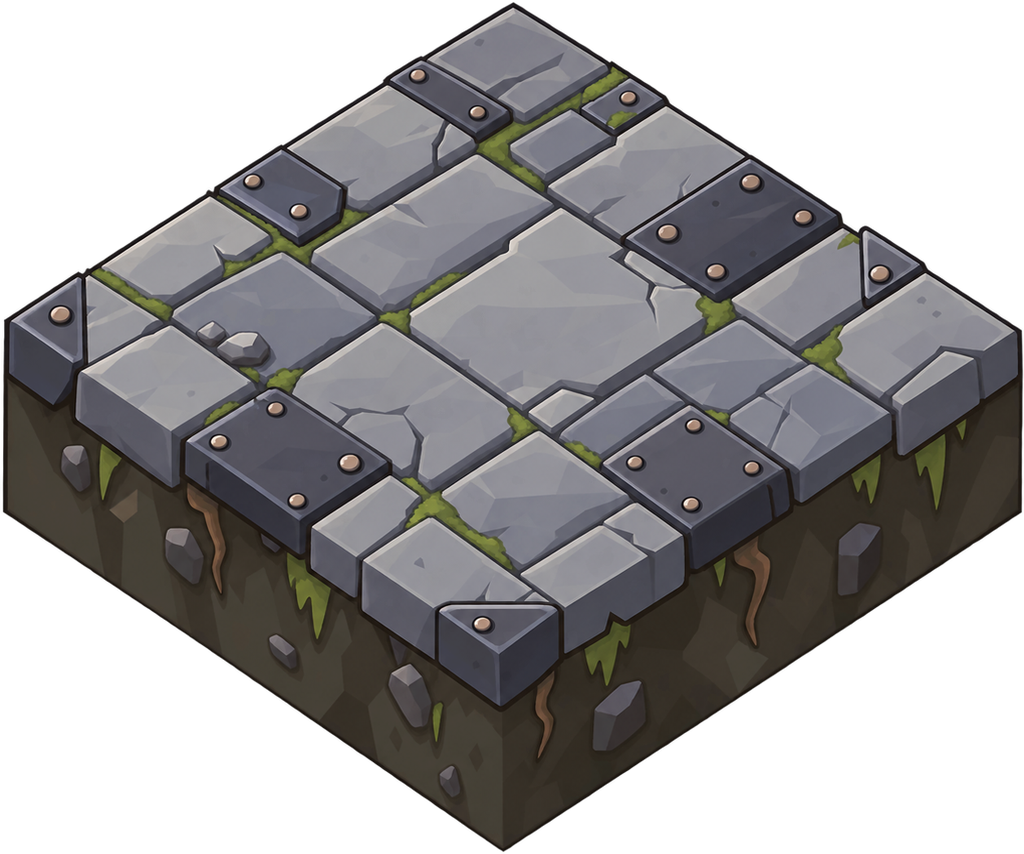
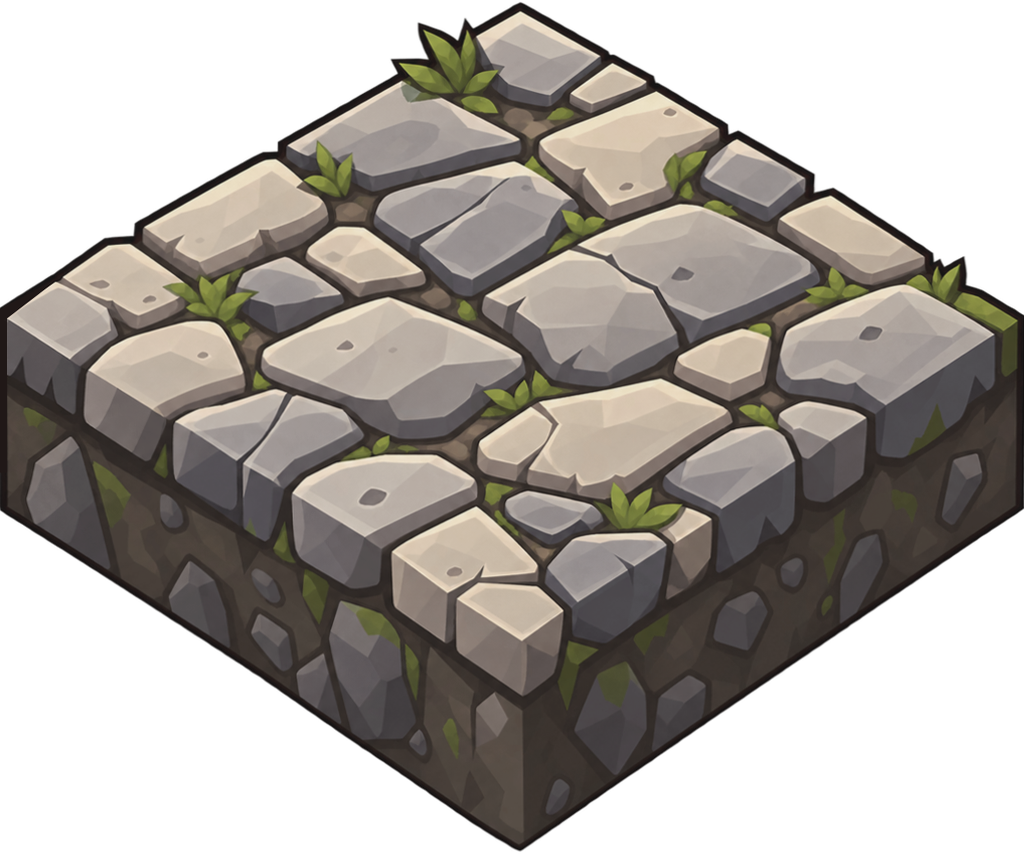
Actualizacion 28/10/2026 22:45:20,02

diff --git a/js/reliquia.js b/js/reliquia.js
@@ -6,10 +6,11 @@
        con un gnomo en la mano lo aturde y carga el gnomo con +5 puntos (el gnomo se queda).
      - Abrir el altar: lanzarle un gnomo cargado con 10 puntos rompe las cadenas (con menos, solo rebota).
        Atacar el altar manda a los guardias tras el atacante hasta que se aleje más de 4 casillas.
-     - La Reliquia: quien la coge del altar la lleva sobre la cabeza y acumula 1 punto por cada turno que la
-       lleva; los guardias van a por él (siempre al portador, sea del bando que sea). Si llega a una casilla
-       pegada a su obelisco cobra todos los puntos de Gloria y el minijuego se reinicia (Reliquia al altar,
-       sellado). Si la pierde (muere), cae al suelo y pierde los puntos: cualquier unidad que la pise la coge;
+     - La Reliquia: quien la coge del altar la lleva sobre la cabeza con 0 puntos; al desencadenarla salen 15
+       PÁGINAS flotando en casillas libres al azar (cuando se recoge una sale otra, hasta 30 en total) y cada
+       página que pisa el portador le suma +2 puntos. Los guardias van a por él (siempre al portador, sea del
+       bando que sea). Si llega a una casilla pegada a su obelisco cobra todos los puntos de Gloria, las
+       páginas se desvanecen y el minijuego se reinicia (Reliquia al altar, sellado). Si la pierde (muere), cae al suelo y pierde los puntos: cualquier unidad que la pise la coge;
        si la pisa un guardia, vuelve al altar y se resella.
    Solo existe en el nivel "wallforge" (experimental, sin multijugador). El resto del juego solo la ve a través
    de Reliquia.blocks (casillas ocupadas, vía Drums.at), Reliquia.addThrowMarker (js/gnome.js), Reliquia.refreshFog
@@ -24,6 +25,7 @@ const RELIQUIA_SRC = {
   abierto: RELIQUIA_DIR + "altar_abierto.png",
   vacio: RELIQUIA_DIR + "altar_vacio.png",
   icono: RELIQUIA_DIR + "reliquia.png",
+  pagina: RELIQUIA_DIR + "pagina.png",
 };
 const RELIQUIA_HITS_TO_OPEN = 3; // gnomos que hay que estrellar contra el altar: rompen una cadena, la otra y, el tercero, desencadena la Reliquia
 const RELIQUIA_WAVE_MS = [2400, 1600, 1000, 620]; // cada cuánto sale una onda naranja según los golpes recibidos (más rápido con menos cadenas)
@@ -36,13 +38,17 @@ const RELIQUIA_GUARD_OFFSETS = [0, 5, 11]; // posiciones de los 3 guardias en el
 const RELIQUIA_ALTAR_W = 262; // ancho del altar en pantalla (px)
 const RELIQUIA_ALTAR_H = (638 / 560) * RELIQUIA_ALTAR_W;
 const RELIQUIA_MAX_POINTS = 30; // tope de puntos acumulables
-const RELIQUIA_POINTS_PER_TURN = 3; // puntos que suma la Reliquia por turno en manos de un jugador
+const RELIQUIA_PAGES_START = 15; // páginas que salen por el mapa al desencadenar la Reliquia
+const RELIQUIA_PAGES_TOTAL = 30; // páginas que pueden aparecer en total (al recoger una sale otra hasta llegar a este número)
+const RELIQUIA_PAGE_POINTS = 2; // puntos que suma al portador cada página que pisa
 const RELIQUIA_FLOAT_Y = 150; // altura de la Reliquia flotando sobre el altar vacío (ya sin cadenas)
 const RELIQUIA_RELIC_Y = 93; // altura (px sobre el centro de la casilla) a la que flota la Reliquia sobre el altar
 
 const Reliquia = {
   altar: null, // { row, col, el, imgEl, state: "sellado" | "abierto" | "vacio" }
   guards: [],
+  pages: [], // páginas flotando por el mapa: { row, col, el }
+  pagesSpawned: 0, // páginas que han salido desde que se desencadenó la Reliquia
   relic: null, // { state: "altar" | "carried" | "guard" | "floor", carrier, guard, team, points, row, col, el }
   alert: null, // { unitId }
   base: 0, // giro actual de la patrulla
@@ -55,6 +61,9 @@ const Reliquia = {
   resetAll() {
     if (this.altar && this.altar.el) this.altar.el.remove();
     this.guards.forEach((g) => g.el && g.el.remove());
+    this.pages.forEach((p) => p.el && p.el.remove());
+    this.pages = [];
+    this.pagesSpawned = 0;
     if (this.relic && this.relic.el) this.relic.el.remove();
     this._hideFloat();
     this.altar = null;
@@ -268,6 +277,7 @@ const Reliquia = {
     this.altar.el.classList.toggle("unit--fog-hidden", f(this.altar));
     if (this.altar.floatEl) this.altar.floatEl.classList.toggle("unit--fog-hidden", f(this.altar));
     this.guards.forEach((g) => g.el.classList.toggle("unit--fog-hidden", f(g)));
+    this.pages.forEach((p) => p.el.classList.toggle("unit--fog-hidden", f(p)));
     const r = this.relic;
     if (r && r.state === "floor" && r.el) r.el.classList.toggle("unit--fog-hidden", f(r));
   },
@@ -328,15 +338,6 @@ const Reliquia = {
     if (!this.altar || !this.relic) return;
     if (typeof Obelisks !== "undefined" && Obelisks.gameOver) return;
     try {
-      const r = this.relic;
-      if (r.state === "carried" && r.team === team) {
-        const gain = Math.min(RELIQUIA_POINTS_PER_TURN, RELIQUIA_MAX_POINTS - r.points);
-        r.points += gain;
-        this._updateBadge();
-        const u = this._carrier();
-        if (u) Units.spawnFloatingText(u, `+${gain}`, { className: "dmg-popup gnome-points-popup" });
-        if (u) await this.checkDelivery(u);
-      }
       this._revealCarrier();
       await this._guardsTurn();
     } catch (e) {
@@ -850,12 +851,95 @@ const Reliquia = {
       this._setAltar("vacio"); // sin cadenas: altar vacío y la Reliquia flotando encima
       this._stopWaves();
       this._showFloat();
+      this._spawnPages(RELIQUIA_PAGES_START); // la Reliquia se libera: salen las páginas por todo el mapa
     }
     if (typeof Enmurallado !== "undefined" && Enmurallado.shards) Enmurallado.shards(x, y - 70, a.hits >= 3 ? 16 : 8, { speed: 100, lift: 60, size: 11 });
     if (a.hits >= 2 && a.imgEl.animate)
       a.imgEl.animate([{ transform: "scale(.94,1.06)" }, { transform: "scale(1.07,.93)", offset: 0.4 }, { transform: "scale(1,1)" }], { duration: 480, easing: "cubic-bezier(.2,1.5,.4,1)" });
     if (a.hits < RELIQUIA_HITS_TO_OPEN) this._startWaves(); // las ondas se aceleran
     await this._wait(a.hits >= 3 ? 420 : 260);
+  },
+
+  // ---------- Páginas de la Reliquia ----------
+  _pageAt(row, col) {
+    return this.pages.find((p) => p.row === row && p.col === col) || null;
+  },
+
+  _pageTileOk(r, c) {
+    const size = Units.boardSize;
+    if (r < 0 || c < 0 || r >= size || c >= size) return false;
+    if (typeof TerrainMap !== "undefined" && !TerrainMap.isWalkable(r, c)) return false;
+    if (this.altar && Math.max(Math.abs(r - this.altar.row), Math.abs(c - this.altar.col)) <= RELIQUIA_RING) return false;
+    if (this._pageAt(r, c)) return false;
+    if (Units.unitAt(r, c)) return false;
+    if (typeof Gnome !== "undefined" && Gnome.isAt(r, c)) return false;
+    if (typeof Villages !== "undefined" && Villages.at(r, c)) return false;
+    if (typeof Shops !== "undefined" && Shops.at(r, c)) return false;
+    if (typeof Obelisks !== "undefined" && Obelisks.at(r, c)) return false;
+    if (typeof Resources !== "undefined" && Resources.at(r, c)) return false;
+    if (typeof Oracle !== "undefined" && Oracle.at && Oracle.at(r, c)) return false;
+    if (typeof Bushes !== "undefined" && Bushes.at && Bushes.at(r, c)) return false;
+    if (typeof Drums !== "undefined" && Drums.at(r, c)) return false;
+    return true;
+  },
+
+  // Hace salir n páginas en casillas libres al azar (sin pasarse de las 30 totales).
+  _spawnPages(n) {
+    const size = Units.boardSize, cells = [];
+    for (let r = 0; r < size; r++) for (let c = 0; c < size; c++) if (this._pageTileOk(r, c)) cells.push({ row: r, col: c });
+    for (let i = cells.length - 1; i > 0; i--) {
+      const j = Math.floor(Math.random() * (i + 1));
+      [cells[i], cells[j]] = [cells[j], cells[i]];
+    }
+    const count = Math.min(n, RELIQUIA_PAGES_TOTAL - this.pagesSpawned, cells.length);
+    for (let i = 0; i < count; i++) this._createPage(cells[i].row, cells[i].col, i * 70);
+    this.pagesSpawned += count;
+    this.refreshFog();
+  },
+
+  _createPage(row, col, delay) {
+    const el = document.createElement("div");
+    el.className = "unit board-item reliquia-page";
+    const img = document.createElement("img");
+    img.alt = "";
+    img.draggable = false;
+    img.style.animationDelay = `-${(Math.random() * 3).toFixed(2)}s`; // flotan desfasadas
+    this._src(img, RELIQUIA_SRC.pagina);
+    el.appendChild(img);
+    Units.container.appendChild(el);
+    const { x, y } = this._px(row, col);
+    el.style.left = `${x}px`;
+    el.style.top = `${y}px`;
+    el.style.zIndex = String((row + col) * 10 + 7);
+    this.pages.push({ row, col, el });
+    if (el.animate) el.animate([{ scale: "0.2", opacity: 0 }, { scale: "1.25", opacity: 1, offset: 0.6 }, { scale: "1", opacity: 1 }], { duration: 420, delay: delay || 0, easing: "ease-out", fill: "backwards" });
+  },
+
+  // El portador pisa una casilla: si hay una página, la recoge (+2 puntos) y sale otra en otro sitio.
+  _collectPageAt(unit, row, col) {
+    const r = this.relic, page = this._pageAt(row, col);
+    if (!page || !r || r.state !== "carried" || r.carrier !== unit.id) return;
+    this.pages = this.pages.filter((p) => p !== page);
+    const gain = Math.min(RELIQUIA_PAGE_POINTS, RELIQUIA_MAX_POINTS - r.points);
+    r.points += gain;
+    this._updateBadge();
+    Units.spawnFloatingText(unit, `+${gain}`, { className: "dmg-popup gnome-points-popup" });
+    this._sfx("passSuccess");
+    const el = page.el;
+    if (el.animate) el.animate([{ scale: "1", opacity: 1 }, { scale: "1.5", opacity: 0 }], { duration: 260, easing: "ease-out", fill: "forwards" }).finished.catch(() => {}).then(() => el.remove());
+    else el.remove();
+    if (this.pagesSpawned < RELIQUIA_PAGES_TOTAL) setTimeout(() => { if (this.altar && this.relic && this.relic.state !== "altar") this._spawnPages(1); }, 450);
+  },
+
+  _clearPages() {
+    const old = this.pages;
+    this.pages = [];
+    this.pagesSpawned = 0;
+    old.forEach((p) => {
+      const el = p.el;
+      if (el.animate) el.animate([{ scale: "1", opacity: 1 }, { scale: "0.3", opacity: 0 }], { duration: 380, easing: "ease-in", fill: "forwards" }).finished.catch(() => {}).then(() => el.remove());
+      else el.remove();
+    });
   },
 
   // ---------- Coger y llevar la Reliquia ----------
@@ -1001,6 +1085,7 @@ const Reliquia = {
       Units.spawnFloatingText(unit, "0", { className: "dmg-popup gnome-points-popup" });
     }
     if (r.state === "carried" && r.carrier === unit.id) {
+      this._collectPageAt(unit, row, col);
       if (unit.team !== "player" && typeof Fog !== "undefined" && Fog.revealAround) {
         const type = typeof UNIT_TYPES !== "undefined" ? UNIT_TYPES[unit.typeId] : null;
         Fog.revealAround(row, col, (type ? type.percepcion : 1) + 1);
@@ -1043,6 +1128,7 @@ const Reliquia = {
     r.points = 0;
     this.alert = null;
     this._hideFloat();
+    this._clearPages(); // el minijuego se reinicia: las páginas se desvanecen
     await this._fly(from, this._relicAnchor(), 700);
     this.altar.hits = 0;
     this._setAltar("sellado");

diff --git a/js/levelassets.js b/js/levelassets.js
@@ -15,10 +15,10 @@ const LevelAssets = {
       bush: "arbusto.png",
       hierbajos: "hierbajos.png",
     },
-    // Fortaleza WallForge: suelo propio (patio de piedra y tablones de madera) y dos aguas; vegetación de MushBoom hasta tener la propia.
+    // Fortaleza WallForge: suelo propio por zonas (empedrado de base, metal alrededor de la Reliquia, tierra junto al agua) y dos aguas; vegetación de MushBoom hasta tener la propia.
     wallforge: {
       dir: "assets/niveles/wallforge/",
-      grassZones: ["piedra.png", "madera.png"],
+      grassZones: ["piedra.png", "metal.png", "tierra.png"],
       water: ["agua_1.png", "agua_2.png"],
       nodes: null,
       bush: null,
@@ -89,8 +89,42 @@ const LevelAssets = {
     const a = this._h(x0, y0), b = this._h(x0 + 1, y0), c = this._h(x0, y0 + 1), d = this._h(x0 + 1, y0 + 1);
     return a + (b - a) * sx + (c - a) * sy + (a - b - c + d) * sx * sy;
   },
+  // WallForge: suelo por ZONAS (no por ruido). 0 empedrado (base), 1 metal
+  // (alrededor del Altar de la Reliquia, en el centro), 2 tierra (junto al agua).
+  // prepareTerrain se llama desde generateMap y renderMap con el mapa ya decidido.
+  _ctx: null,
+  prepareTerrain(size, isWater) {
+    const zs = TILE_TYPES.grass.zones;
+    if (!zs || zs.length !== 3) { this._ctx = null; return; }
+    const INF = 99, d = Array.from({ length: size }, () => new Array(size).fill(INF));
+    const q = [];
+    for (let r = 0; r < size; r++) for (let c = 0; c < size; c++) if (isWater(r, c)) { d[r][c] = 0; q.push([r, c]); }
+    for (let i = 0; i < q.length; i++) { // distancia (Chebyshev) al agua más cercana
+      const [r, c] = q[i];
+      for (let dr = -1; dr <= 1; dr++) for (let dc = -1; dc <= 1; dc++) {
+        const nr = r + dr, nc = c + dc;
+        if (nr < 0 || nc < 0 || nr >= size || nc >= size || d[nr][nc] <= d[r][c] + 1) continue;
+        d[nr][nc] = d[r][c] + 1; q.push([nr, nc]);
+      }
+    }
+    this._ctx = { size, d };
+  },
+  _zone3(row, col) {
+    const c = this._ctx;
+    if (!c) return 0;
+    const mid = Math.floor(c.size / 2);
+    const dc = Math.max(Math.abs(row - mid), Math.abs(col - mid));
+    // Metal: cuadrado irregular alrededor del altar (radio 2.5–3.8).
+    if (dc <= 2.5 + 1.3 * this._vn(row / 2.5 + 30, col / 2.5 + 30)) return 1;
+    // Tierra: pegada al agua; a 2 casillas, solo a veces para que la orilla no sea una línea recta.
+    const dw = c.d[row] ? c.d[row][col] : 99;
+    if (dw <= 1 || (dw === 2 && this._h(row, col) < 0.2)) return 2;
+    return 0;
+  },
   // Devuelve 0 (tierra) o 1 (piedra) para la loseta.
   zoneIndex(row, col) {
+    const zs = TILE_TYPES.grass.zones;
+    if (zs && zs.length === 3) return this._zone3(row, col);
     // El "bioma" grande decide cuánto se mezcla: en zonas con valor bajo
     // manda un solo material, en las medias se dispersan.
     const big = this._vn(row / 9, col / 9);

diff --git a/index.html b/index.html
@@ -9,7 +9,7 @@
      existe para tomar el control del gesto. -->
 <meta name="viewport" content="width=device-width, initial-scale=1.0, maximum-scale=1.0, user-scalable=no, viewport-fit=cover">
 <title>Gnomore Gnomes</title>
-<link rel="stylesheet" href="css/style.css?v=1793787000">
+<link rel="stylesheet" href="css/style.css?v=1793797000">
 <link rel="stylesheet" href="css/mobile.css?v=1793502810">
 <link rel="stylesheet" href="assets/fonts/phosphor/regular.css">
 <link rel="stylesheet" href="assets/fonts/phosphor/light.css">
@@ -108,7 +108,7 @@
          de juego de rol" — contenedor propio (no .option-list, pensado
          para la lista vertical y estrecha de modo/rivales) para las
          tarjetas de raza, más anchas y en fila (ver .race-card-list en
-         css/style.css?v=1793787000 y renderRaceCard en js/newgame-flow.js). -->
+         css/style.css?v=1793797000 y renderRaceCard en js/newgame-flow.js). -->
     <div class="race-card-list" id="race-list"></div>
   </main>
 
@@ -154,7 +154,7 @@
   <script src="js/races.js?v=1791600001"></script>
   <script src="js/levels.js?v=1793700000"></script>
   <script src="js/matchsetup.js?v=1793500600"></script>
-  <script src="js/levelassets.js?v=1793795000"></script>
+  <script src="js/levelassets.js?v=1793796000"></script>
   <script src="js/mapgen.js?v=1793500570"></script>
   <script src="js/terraincanvas.js?v=1793600100"></script>
   <script src="js/fpsmeter.js?v=1793500113"></script>
@@ -199,7 +199,7 @@
   <script src="js/drums.js?v=1793500570"></script>
   <script src="js/bumpers.js?v=1793500570"></script>
   <script src="js/egg.js?v=1793300026"></script>
-  <script src="js/reliquia.js?v=1793787000"></script>
+  <script src="js/reliquia.js?v=1793797000"></script>
   <script src="js/eggprize.js?v=1793000107"></script>
   <script src="js/crane.js?v=1793300026"></script>
   <script src="js/volcano.js?v=1793787100"></script>
@@ -231,7 +231,7 @@
   <script src="js/version.js?v=1793787100"></script>
   <script src="js/menu.js?v=1793200002"></script>
   <script src="js/appupdate.js?v=1793500090"></script>
-  <script src="js/assetlist.js?v=1793795000"></script>
+  <script src="js/assetlist.js?v=1793796000"></script>
   <script src="js/preload.js?v=1793500001"></script>
   <script src="js/selectscreens.js?v=1793787100"></script>
   <script src="js/newgame-flow.js?v=1793787100"></script>

diff --git a/js/version.js b/js/version.js
@@ -16,12 +16,12 @@ const GG_VERSION = "v.001614";
 
 const GG_CHANGELOG = [
   { v: "v.001614", date: "28/10/2026", title: "Fortaleza WallForge", items: [
-    "Fortaleza WallForge: suelo propio con losetas de piedra y de madera mezcladas por zonas, dos aguas nuevas y nuevo obelisco para el Equipo Reforjados",
+    "Reliquia de WallForge, nueva mecánica: al liberarla salen 15 páginas flotando por el mapa en casillas libres (al recoger una sale otra, hasta 30); el portador empieza con 0 puntos y cada página que pisa le suma +2; ya no suma puntos por turno. Al llegar junto a su obelisco cobra los puntos, se los resta a los rivales y las páginas se desvanecen",
+    "Fortaleza WallForge: suelo propio por zonas (tierra junto al agua, empedrado como base y suelo metálico alrededor de la Reliquia), dos aguas nuevas y nuevo obelisco para el Equipo Reforjados",
     "Reliquia de WallForge: el indicador de puntos va en un cuadrado irregular como el resto de contadores y la Reliquia acumula como máximo 30 puntos",
     "Reliquia de WallForge: al entregarla, los rivales pierden la misma Gloria que gana quien la entrega (sin bajar de 0, con un \"-N\" junto a tu marcador)",
     "Reliquia de WallForge: lanzar un gnomo al soldado que lleva la Reliquia lo marea y la suelta; a los jugadores portadores no les afecta",
     "Reliquia de WallForge: si cae al suelo, el guardia más cercano la recoge y la lleva al altar mientras los otros dos le cubren; al llegar el altar se resella y el minijuego se reinicia",
-    "Reliquia de WallForge: la Reliquia suma 3 puntos por turno en manos de un jugador y su número se ve junto al icono",
     "Reliquia de WallForge: el tercer gnomo deja el altar vacío con la Reliquia flotando encima, más grande, lista para cogerla",
   ] },
   { v: "v.001612", date: "27/10/2026", title: "La Reliquia Paranoica de WallForge", items: [

diff --git a/js/mapgen.js b/js/mapgen.js
@@ -572,6 +572,7 @@ function generateMap(size, options) {
   // encima no se notaría).
   if (opts.rivers) generateRiver(grid, size, inSafeZone);
 
+  if (typeof LevelAssets !== "undefined") LevelAssets.prepareTerrain(size, (r, c) => grid[r][c] === "water"); // suelo por zonas (WallForge)
   const tiles = [];
   for (let row = 0; row < size; row++) {
     for (let col = 0; col < size; col++) {
@@ -612,6 +613,11 @@ function renderMap(map, container) {
     h: Math.floor(TILE_RENDER_HEIGHT * grassAdjust.scale),
   };
   const tileDefs = [];
+  if (typeof LevelAssets !== "undefined") {
+    const wat = new Set();
+    map.tiles.forEach((t) => { if (t.type === "water") wat.add(t.row * map.size + t.col); });
+    LevelAssets.prepareTerrain(map.size, (r, c) => wat.has(r * map.size + c)); // también al reanudar una partida guardada
+  }
 
   map.tiles.forEach((t) => {
     const baseSrc = t.type === "grass" ? t.src : pickVariant(TILE_TYPES.grass, t.row, t.col);

diff --git a/css/style.css b/css/style.css
@@ -12467,3 +12467,31 @@ body.tut-on .glory-hud--bump .glory-hud__value { animation: none !important; }
   color: #ff2323;
   filter: drop-shadow(0 4px 0 #4a0a0a);
 }
+
+/* Páginas de la Reliquia (WallForge): flotan sobre la casilla con una sombra plana en el suelo */
+.reliquia-page {
+  pointer-events: none;
+  transform: translate(-50%, -50%);
+}
+.reliquia-page img {
+  display: block;
+  width: 72px;
+  height: auto;
+  animation: reliquia-page-bob 1.8s ease-in-out infinite;
+}
+.reliquia-page::after {
+  content: "";
+  position: absolute;
+  left: 50%;
+  top: 50%;
+  width: 44px;
+  height: 18px;
+  margin: -2px 0 0 -22px;
+  border-radius: 50%;
+  background: rgba(0, 0, 0, 0.28);
+  z-index: -1;
+}
+@keyframes reliquia-page-bob {
+  0%, 100% { transform: translateY(-36px) rotate(-5deg); }
+  50% { transform: translateY(-48px) rotate(5deg); }
+}

diff --git a/js/assetlist.js b/js/assetlist.js
@@ -6,7 +6,8 @@ const PRELOAD_ASSETS = [
  "assets/niveles/rockntroll/agua_1_midres.png",
  "assets/niveles/rockntroll/agua_2_midres.png",
  "assets/niveles/wallforge/piedra_midres.png",
- "assets/niveles/wallforge/madera_midres.png",
+ "assets/niveles/wallforge/metal_midres.png",
+ "assets/niveles/wallforge/tierra_midres.png",
  "assets/niveles/wallforge/agua_1_midres.png",
  "assets/niveles/wallforge/agua_2_midres.png",
  "assets/niveles/rockntroll/pino_midres.png",
